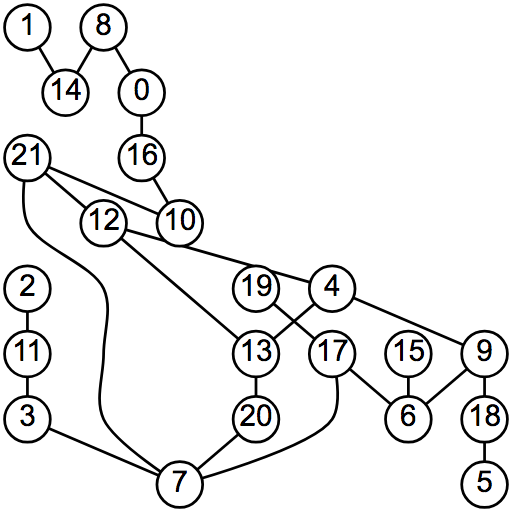
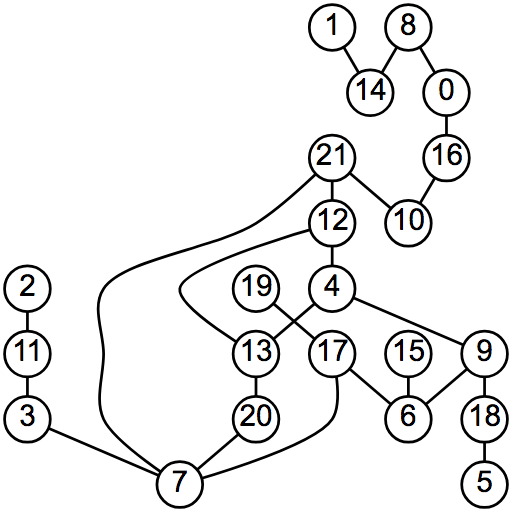
Fix greedy

diff --git a/src/sugiyama/coord/greedy.js b/src/sugiyama/coord/greedy.js
@@ -4,12 +4,12 @@
 
 export default function() {
 
-
   let assignment = mean;
   
   function coordGreedy(layers, separation) {
     // Assign degrees
-    layers.forEach(layer => layer.forEach(n => n.degree = n.children.length));
+    // The 3 at the end ensures that dummy nodes have the lowest priority
+    layers.forEach(layer => layer.forEach(n => n.degree = n.children.length + (n.data ? 0 : -3)));
     layers.forEach(layer => layer.forEach(n => n.children.forEach(c => ++c.degree)));
 
     // Set first nodes
@@ -22,7 +22,7 @@ export default function() {
     layers.slice(0, layers.length - 1).forEach((top, i) => {
       const bottom = layers[i + 1];
       assignment(top, bottom);
-      bottom.map((n, j) => [n, j]).sort(([an, aj], [bn, bj]) => an.x === bn.x ? aj - bj : an.x - bn.x).forEach(([n, j]) => {
+      bottom.map((n, j) => [n, j]).sort(([an, aj], [bn, bj]) => an.degree === bn.degree ? aj - bj : bn.degree - an.degree).forEach(([n, j]) => {
         bottom.slice(j + 1).reduce((last, node) => {
           node.x = Math.max(node.x, last.x + separation(last, node));
           return node;
@@ -37,6 +37,7 @@ export default function() {
     const min = Math.min(...layers.map(layer => Math.min(...layer.map(n => n.x))));
     const span = Math.max(...layers.map(layer => Math.max(...layer.map(n => n.x)))) - min;
     layers.forEach(layer => layer.forEach(n => n.x = (n.x - min) / span));
+    layers.forEach(layer => layer.forEach(n => delete n.degree));
     return layers;
   }
 

diff --git a/README.md b/README.md
@@ -483,7 +483,7 @@ Since minimizing only curves is not well defined, weight can not be 1.
 
 Construct a greedy coordinate accessor.
 This accessor assigns coordinates as the mean of their parents and then spaces them out to respect their separation.
-The spacing out is performed by solving a linear program, which for most graphs of reasonable width should be fast enough, but is not free.
+Nodes with higher degree that aren't dummy nodes are given higher priority for shifting order, i.e. are less likely to be moved from the mean of their parents.
 This solution results in a layout that is more pleaseoing than spread, but much faster to compute than vert or minCurve.
 
 ![greedy example](examples/greedy.png)
